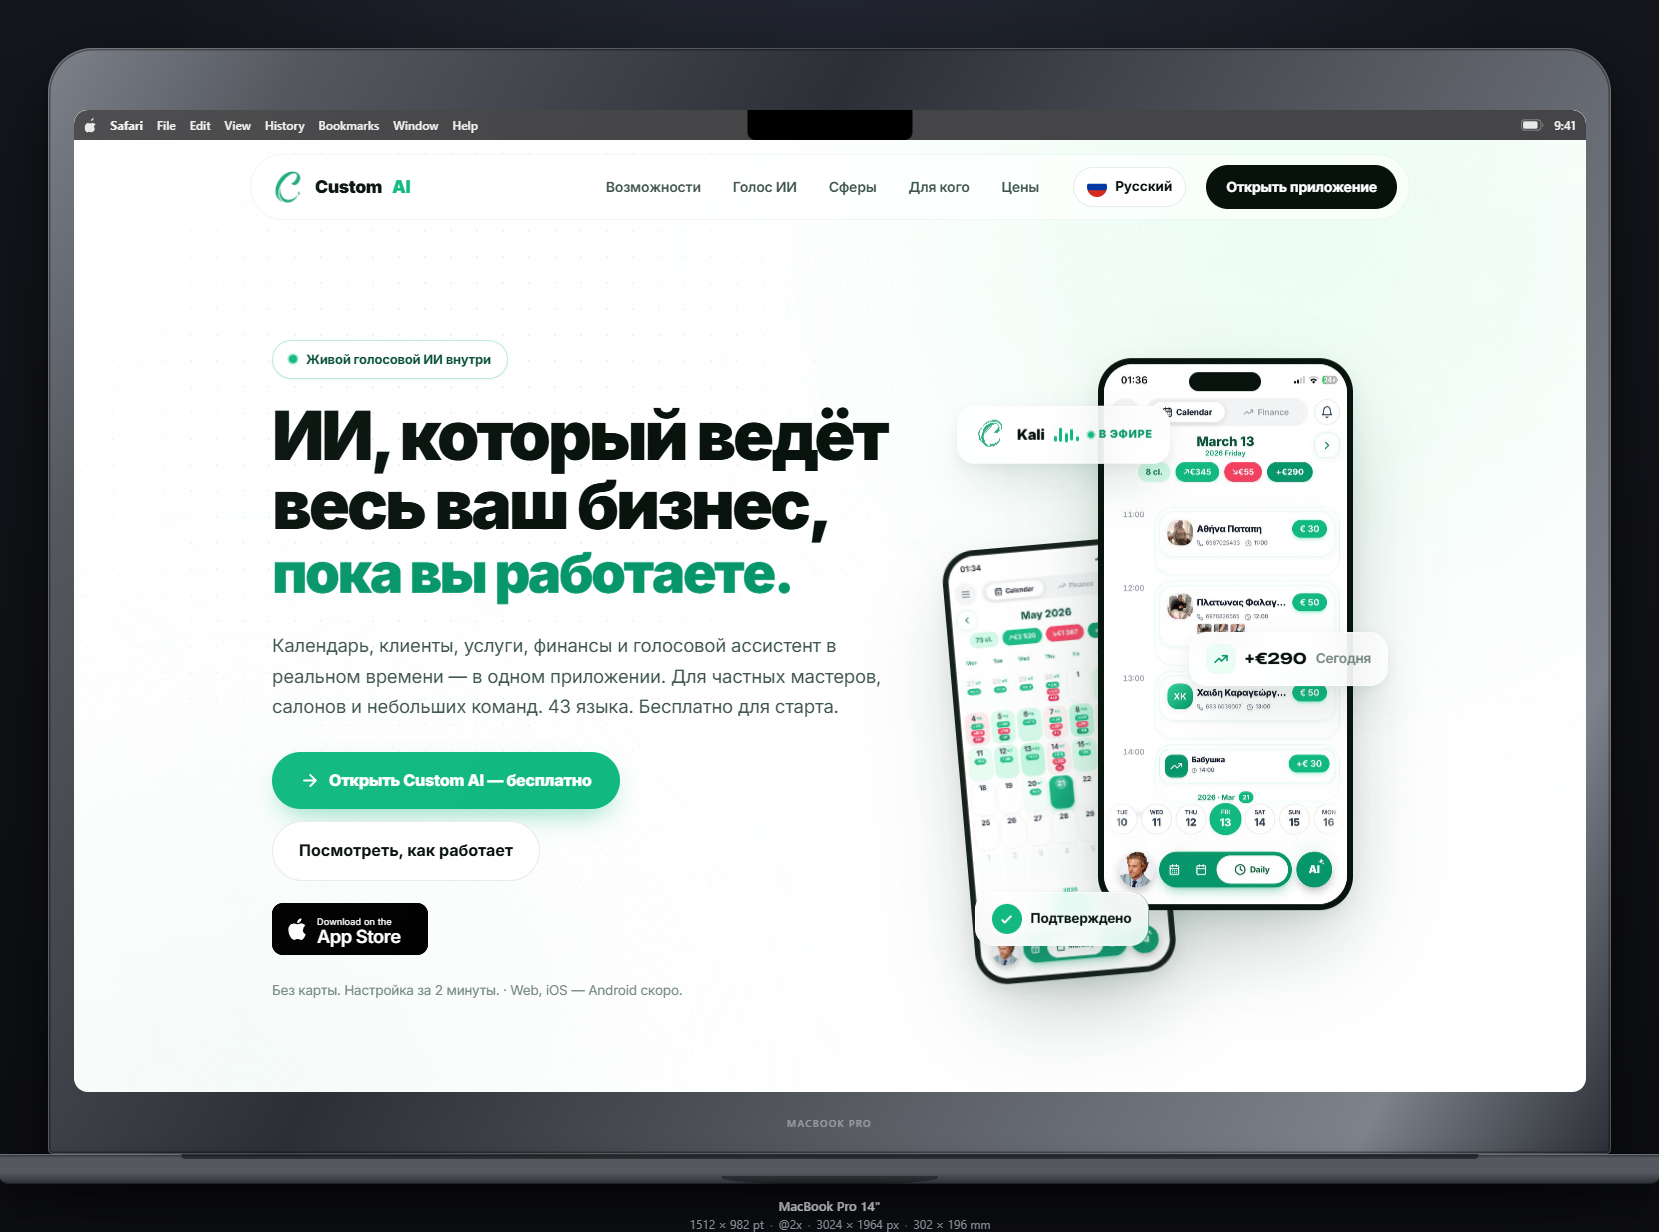
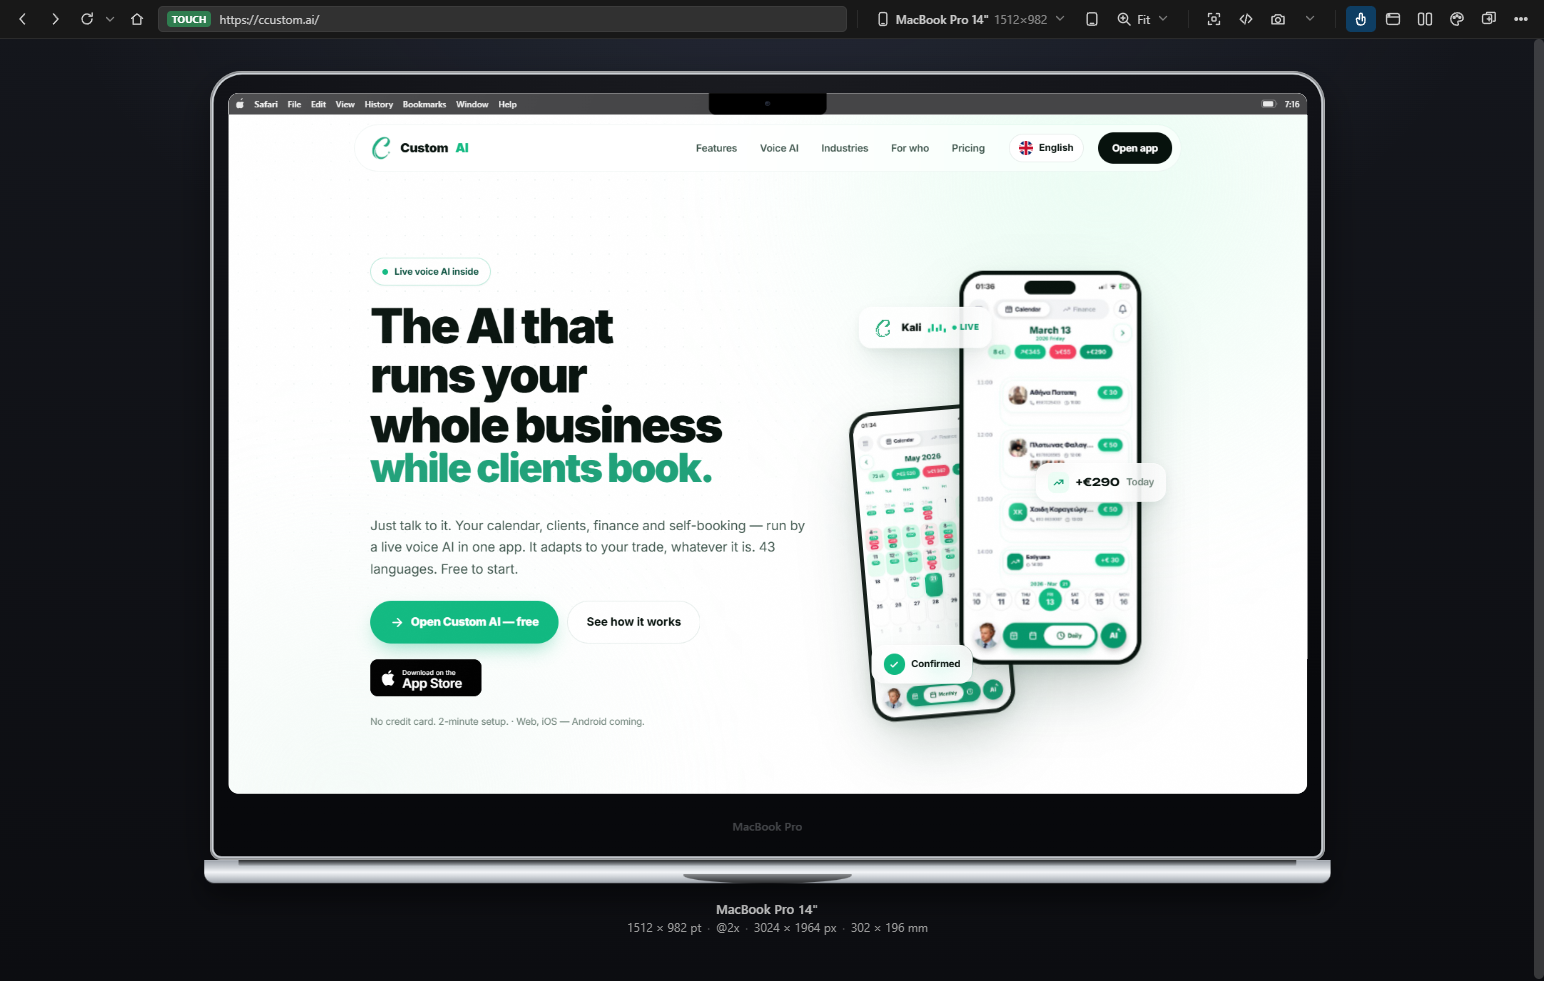
The screenshots in the README were the old ones, in Russian
Every picture on the repository page was a working screenshot from before the
frame was fixed: the site in Russian because it picks the browser's language,
the iPad cropped against the window edge because the saved zoom was 75%, a
toast sitting across the device label, and the MacBook still drawn as an
aluminium picture frame.

Retaken with the site switched to English through its own picker, zoom set to
Fit so nothing is cropped, and a clean Recent list. The light-theme plate is
gone — it was showing the dark studio stage behind the device, not the theme,
so it illustrated nothing. iPhone and iPad take its place, and the MacBook
plate now shows the lid the way it is actually drawn.

The Russian README had no pictures at all; it has the same two now.

diff --git a/README.md b/README.md
@@ -107,14 +107,24 @@ The single executable is a copy of the node binary it was built with, so a Mac b
 needs a Mac. `.github/workflows/release.yml` builds all three on a tag — Apple
 silicon, Intel and Windows — and attaches them to the release.
 
-![MacBook Pro frame with the macOS menu bar](docs/macbook.png)
+![MacBook Pro 14-inch frame: black glass, the notch cut into the macOS menu bar, and the deck below the lid](docs/macbook.png)
+
+A MacBook lid is one sheet of black glass with a hairline of anodised edge, its chin
+three times its forehead, and its notch cut **into** the menu bar — where a browser
+window never reaches, so it is never a black rectangle over your site.
 
 ## What it looks like
 
+![The start page, listing the dev servers found on this machine](docs/start-page.png)
+
+Dev servers are not guessed from a list of usual ports. The app asks the operating
+system what is listening, then asks each port whether it serves pages — and shows the
+site's own title and icon. The one on 8899 above is on no list of usual ports.
+
 | | |
 |---|---|
-| ![Start page](docs/start-page.png) | ![Light theme](docs/light-theme.png) |
-| Dev servers are found by asking the OS what is listening, then asking each one whether it serves pages — with its title and icon | Light, dark, or follow the system |
+| ![iPhone 16 Pro frame showing a live site](docs/iphone.png) | ![iPad Pro 11-inch frame showing the same site](docs/ipad.png) |
+| iPhone 16 Pro — 402 × 874 pt, @3x, 67 × 145 mm, safe area 62/34 | iPad Pro 11" (M4) — the same engine, the same proxy, the same session |
 
 ## Notable details
 

diff --git a/README.ru.md b/README.ru.md
@@ -1,4 +1,8 @@
-# Custom AI View — Custom AI View
+# Custom AI View
+
+[ccustom.ai/view](https://ccustom.ai/view) · [Custom AI](https://ccustom.ai)
+
+![Элемент выбран на телефоне и раскрыт в панели кода справа](docs/inspect-element.png)
 
 Работает в двух видах:
 
@@ -84,6 +88,12 @@ iPad, MacBook. Сверху — статус-бар с живыми часами
 не может — этот хук не входит в стабильный API. Терминал и редактор работают всегда;
 превью Markdown и ноутбуки — только в тех сборках, где хук доступен, и расширение
 подключается к нему само, если он есть.
+
+![MacBook Pro 14": чёрное стекло, чёлка вырезана в строке меню, снизу дека](docs/macbook.png)
+
+Крышка макбука — это один лист чёрного стекла с волоском анодированной кромки,
+подбородок втрое выше лба, а чёлка вырезана **в строке меню**, куда окно браузера
+не заходит вовсе — поэтому она никогда не лежит чёрным прямоугольником на сайте.
 
 ## Инспектор элементов и передача агенту
 
